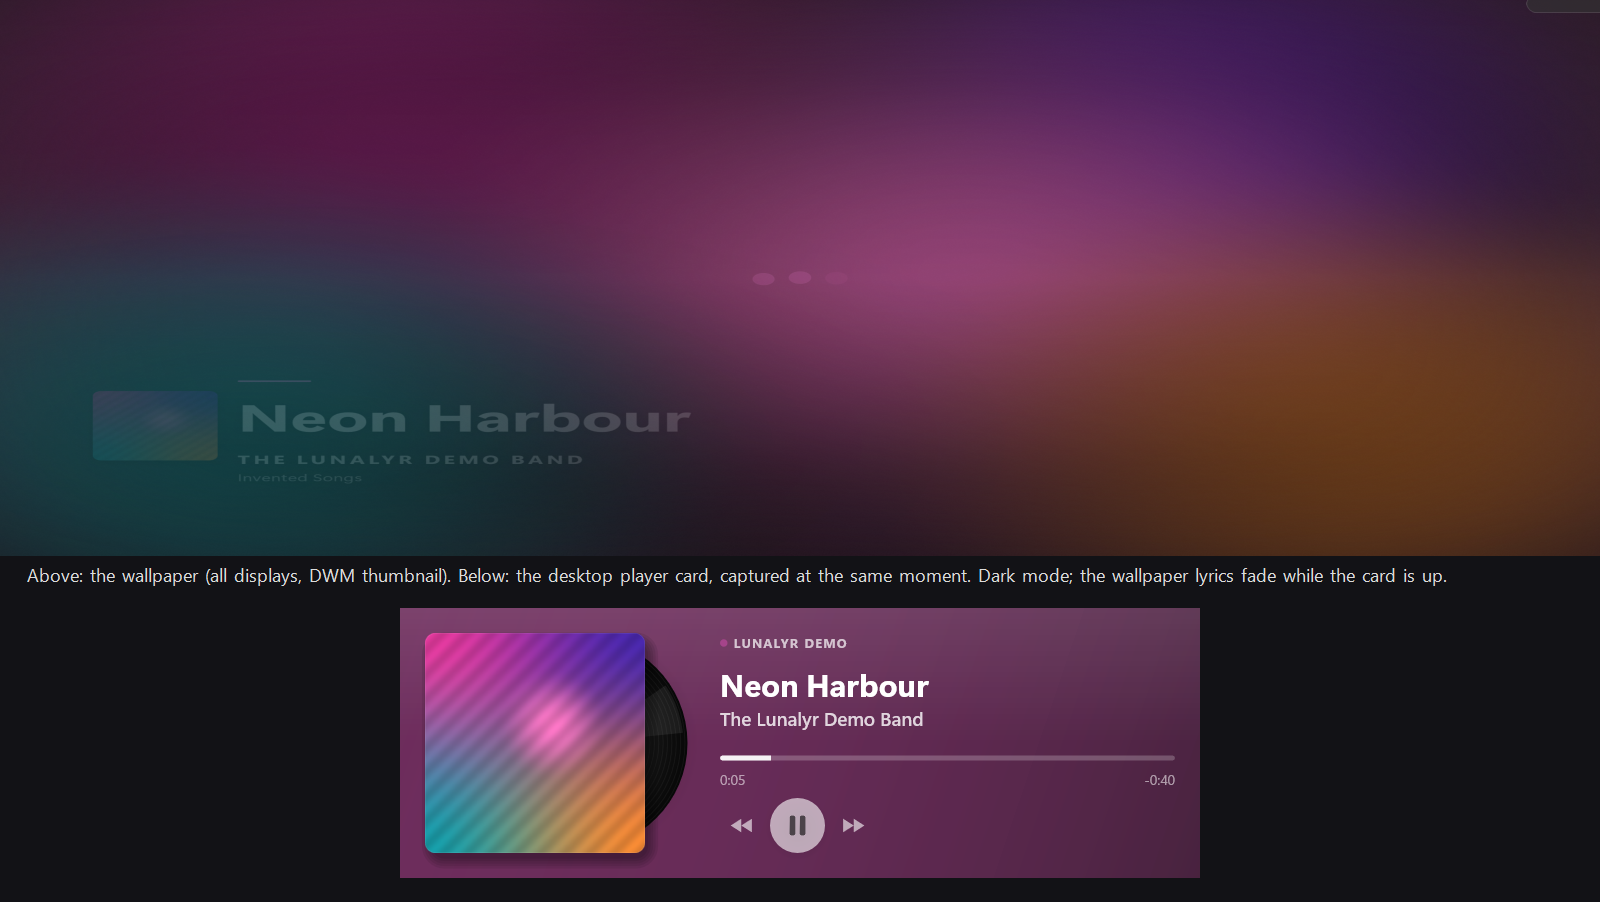
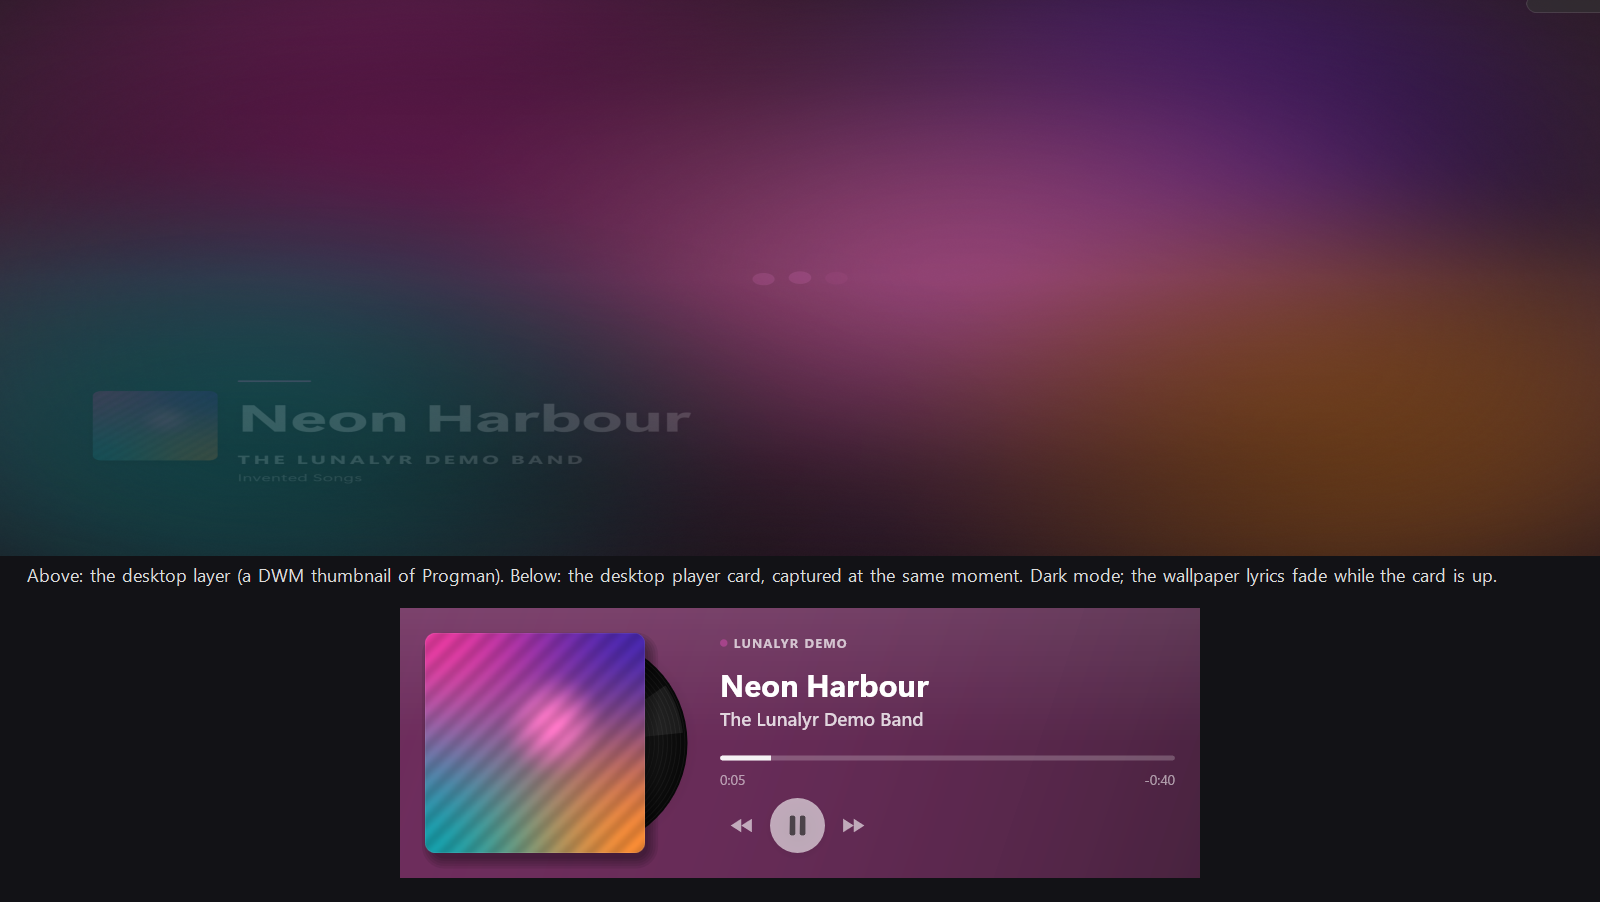
Desktop player: fewer per-frame allocations, on-screen check, honest docs
The card's strings that change with the clock are made once a second, the paint delegate
once, and UI Automation's snapshot at most four times a second. --player-debug top shows
the card over every window, for checks on screen. Button presses, seeks and the lyric
focus are logged at debug level.

Seen on screen: DWM's 8 px corners and album-coloured border, no shadow (the docs no
longer claim one); the hover from real mouse moves; the card directly above Progman. The
mid-scrub previews use lines the wallpaper holds; a held clock inside the demo's long
wrapping line loses that line after about 2 s, noted for the compositions' owner.

Changed region(s): [[0.0625, 0.6208, 0.9375, 0.6519]]

diff --git a/windows/src/Lunalyr.App/Player/CardPainter.cs b/windows/src/Lunalyr.App/Player/CardPainter.cs
@@ -14,7 +14,7 @@ namespace Lunalyr.App.Player;
 /// <summary>
 /// Draws the "Sleeve" card from a <see cref="CardModel"/> with Direct2D and DirectWrite, in DIPs. Device resources
 /// (brushes, the cover bitmap, gradients) are made once and kept until the device or the theme changes; text layouts
-/// are kept per string. Drawing a frame allocates nothing once those exist.
+/// are kept per string. A frame allocates only when a string it shows changes (the times, once a second).
 /// </summary>
 internal sealed class CardPainter : IDisposable
 {
@@ -288,7 +288,7 @@ internal sealed class CardPainter : IDisposable
         // The player, small, over the song (or the note about a command, while it shows).
         if (m.PlayerName.Length > 0 && m.NoteAlpha < 0.999f)
         {
-            var label = Layout(m.PlayerName.ToUpperInvariant(), TextStyle.Label, (int)width - 14);
+            var label = Layout(Upper(m.PlayerName), TextStyle.Label, (int)width - 14);
             var alpha = secondary * (1 - m.NoteAlpha);
             Fill(dc, new Ellipse(new Vector2(left + 3, CardLayout.ColumnTop + 8), 3, 3), WithAlpha(t.HighContrast ? t.Ink : t.Accent, alpha));
             DrawText(dc, label, left + 11, CardLayout.ColumnTop + 1, WithAlpha(t.Ink, alpha));
@@ -361,7 +361,7 @@ internal sealed class CardPainter : IDisposable
             }
             case ScrubRowKind.ElapsedOnly:
             {
-                var elapsed = Layout(ScrubMath.Timestamp(m.Elapsed), TextStyle.Time, 80);
+                var elapsed = Layout(Elapsed(m.Elapsed), TextStyle.Time, 80);
                 DrawText(dc, elapsed, left, CardLayout.SeekRowTop + CardLayout.BarBand, WithAlpha(t.Ink, timeAlpha));
                 var unknown = Layout("Length unknown", TextStyle.Time, 200);
                 DrawText(dc, unknown, left + elapsed.Metrics.Width + 8, CardLayout.SeekRowTop + CardLayout.BarBand, WithAlpha(t.Ink, timeAlpha * 0.6f));
@@ -440,8 +440,8 @@ internal sealed class CardPainter : IDisposable
         }
         else
         {
-            DrawText(dc, Layout(ScrubMath.Timestamp(m.Elapsed), TextStyle.Time, 100), times.X, times.Y, timeColour);
-            var trailing = Layout(ScrubMath.TrailingLabel(m.Elapsed, duration, m.ShowsRemaining), TextStyle.Time, 100);
+            DrawText(dc, Layout(Elapsed(m.Elapsed), TextStyle.Time, 100), times.X, times.Y, timeColour);
+            var trailing = Layout(Trailing(m.Elapsed, duration, m.ShowsRemaining), TextStyle.Time, 100);
             DrawText(dc, trailing, times.Right - trailing.Metrics.Width, times.Y, m.HoverPart == CardPart.TimeLabel ? WithAlpha(t.Ink, 1) : timeColour);
         }
 
@@ -484,7 +484,7 @@ internal sealed class CardPainter : IDisposable
         var time = m.CapsuleTime;
 
         // The time, with the rate under a slow hand.
-        var timeLayout = Layout(ScrubMath.Timestamp(time), TextStyle.CapsuleTime, 100);
+        var timeLayout = Layout(CapsuleTime(time), TextStyle.CapsuleTime, 100);
         var rate = m.Session?.RateLabel is { } r ? Layout(r, TextStyle.Rate, 120) : null;
         var timeWidth = timeLayout.Metrics.Width + (rate is null ? 0 : rate.Metrics.Width + 6) + 18;
         var timeBox = Clamp(new RectF(left + (float)m.CapsuleX - timeWidth / 2, bottom - 22, timeWidth, 22), left, width);
@@ -659,6 +659,39 @@ internal sealed class CardPainter : IDisposable
     }
 
     // ---- Text ----
+
+    // The strings that change with the clock, made again only when the second (or the label) changes.
+    private (long Key, string Text) _elapsed = (long.MinValue, ""), _capsuleTime = (long.MinValue, "");
+    private ((long, long, bool) Key, string Text) _trailing = ((long.MinValue, 0, false), "");
+    private (string Source, string Upper) _upper = ("", "");
+
+    private string Elapsed(double seconds)
+    {
+        var key = double.IsFinite(seconds) ? (long)Math.Floor(Math.Max(-1, seconds)) : -1;
+        if (key != _elapsed.Key) _elapsed = (key, ScrubMath.Timestamp(seconds));
+        return _elapsed.Text;
+    }
+
+    private string CapsuleTime(double seconds)
+    {
+        var key = double.IsFinite(seconds) ? (long)Math.Floor(Math.Max(-1, seconds)) : -1;
+        if (key != _capsuleTime.Key) _capsuleTime = (key, ScrubMath.Timestamp(seconds));
+        return _capsuleTime.Text;
+    }
+
+    private string Trailing(double elapsed, double duration, bool remaining)
+    {
+        var left = Math.Ceiling(Math.Max(0, duration - Math.Min(Math.Max(double.IsFinite(elapsed) ? elapsed : 0, 0), Math.Max(duration, 0))));
+        var key = ((long)(remaining ? left : -1), (long)Math.Floor(double.IsFinite(duration) ? duration : 0), remaining);
+        if (key != _trailing.Key) _trailing = (key, ScrubMath.TrailingLabel(elapsed, duration, remaining));
+        return _trailing.Text;
+    }
+
+    private string Upper(string text)
+    {
+        if (!ReferenceEquals(text, _upper.Source)) _upper = (text, text.ToUpperInvariant());
+        return _upper.Upper;
+    }
 
     private IDWriteTextLayout Layout(string text, TextStyle style, int maxWidth)
     {

diff --git a/windows/src/Lunalyr.App/Player/DesktopPlayer.cs b/windows/src/Lunalyr.App/Player/DesktopPlayer.cs
@@ -50,6 +50,7 @@ internal sealed unsafe partial class DesktopPlayer : IDisposable
     private long _primary;
     private readonly double _debugScrub = double.NaN;
     private readonly bool _debugShow;
+    private readonly bool _debugTop;
     private PlayerAutomation? _automation;
 
     // Hover poll.
@@ -70,6 +71,7 @@ internal sealed unsafe partial class DesktopPlayer : IDisposable
         _titles = new(1), _note = new(0);
     private double _noteUntil = double.NegativeInfinity;
     private uint _frameMs;
+    private double _automationAt = double.NegativeInfinity;
     private bool _dirty = true;
     private int _drawnVersion = -1;
 
@@ -108,6 +110,7 @@ internal sealed unsafe partial class DesktopPlayer : IDisposable
         foreach (var flag in debug)
         {
             if (flag == "show") _debugShow = true;
+            else if (flag == "top") _debugTop = true;
             else if (flag.StartsWith("scrub=", StringComparison.Ordinal)
                      && double.TryParse(flag.AsSpan(6), NumberStyles.Float, CultureInfo.InvariantCulture, out var share))
                 _debugScrub = Math.Clamp(share, 0, 1);
@@ -378,6 +381,13 @@ internal sealed unsafe partial class DesktopPlayer : IDisposable
     /// <summary>Just above the desktop, under every app's window: a window over the middle of the screen covers the card.</summary>
     private void PlaceAboveDesktop()
     {
+        if (_debugTop)
+        {
+            // --player-debug top: over every window, to check what the card looks like on screen (never by default).
+            PlayerNative.SetWindowPos(_surface.Hwnd, -1, 0, 0, 0, 0, PlayerNative.SWP_NOMOVE | PlayerNative.SWP_NOSIZE | PlayerNative.SWP_NOACTIVATE);
+            return;
+        }
+
         var desktop = PlayerNative.FindWindow("Progman", null);
         var above = desktop == 0 ? 0 : PlayerNative.GetWindow(desktop, PlayerNative.GW_HWNDPREV);
         if (above == _surface.Hwnd) return;
@@ -430,6 +440,12 @@ internal sealed unsafe partial class DesktopPlayer : IDisposable
         StartFrames(animating ? 16u : _model.DisplayedPlaying || _scrub.Flashing ? 100u : 250u);
     }
 
+    // Made once: a frame allocates no delegate.
+    private Action<Vortice.Direct2D1.ID2D1DeviceContext>? _paint;
+
+    private void PaintCard(Vortice.Direct2D1.ID2D1DeviceContext dc) =>
+        _painter.Paint(dc, _surface.Factory, _model, (float)PlayerCard.Width, CardPainter.Height);
+
     private void Draw()
     {
         _dirty = false;
@@ -442,9 +458,8 @@ internal sealed unsafe partial class DesktopPlayer : IDisposable
             if (reset) _painter.ReleaseDevice();
             var dc = _surface.Dc!;
             dc.Dpi = new Vortice.Mathematics.Size((float)(96 * _scale), (float)(96 * _scale));
-            var width = (float)PlayerCard.Width;
-            var height = CardPainter.Height;
-            if (!_surface.Draw(d => _painter.Paint(d, _surface.Factory, _model, width, height))) _painter.ReleaseDevice();
+            _paint ??= PaintCard;
+            if (!_surface.Draw(_paint)) _painter.ReleaseDevice();
         }
         catch (Exception ex) when (ex is SharpGen.Runtime.SharpGenException or COMException or InvalidOperationException)
         {
@@ -585,7 +600,13 @@ internal sealed unsafe partial class DesktopPlayer : IDisposable
         m.TitleAlpha = _titles.Value(now);
         m.NoteAlpha = _note.Value(now);
         m.PressedPart = _pressed;
-        _automation?.Update(m);
+        // What UI Automation reads changes at most once a second (the time, the line) or on a press: a few times a
+        // second is plenty, and the frames in between build nothing for it.
+        if (now - _automationAt >= 0.25)
+        {
+            _automationAt = now;
+            _automation?.Update(m);
+        }
     }
 
     private void RefreshLook()

diff --git a/windows/src/Lunalyr.App/Player/DesktopPlayer.Input.cs b/windows/src/Lunalyr.App/Player/DesktopPlayer.Input.cs
@@ -38,6 +38,7 @@ internal sealed unsafe partial class DesktopPlayer
 
     private nint OnMessage(nint hwnd, uint msg, nuint wParam, nint lParam)
     {
+        if (msg is PlayerNative.WM_LBUTTONDOWN or PlayerNative.WM_LBUTTONUP) _log.Debug(msg == PlayerNative.WM_LBUTTONDOWN ? "Desktop player: button down." : "Desktop player: button up.");
         switch (msg)
         {
             case PlayerNative.WM_TIMER:
@@ -411,6 +412,7 @@ internal sealed unsafe partial class DesktopPlayer
     /// <summary>The seek bar's one seek, on release (or a key's): refused, the bar goes back to the player's time.</summary>
     private void Seek(double songSeconds)
     {
+        _log.Debug($"Desktop player: seek to {songSeconds:0.##} s (sent once, through the guard).");
         Run(_commands.SeekAsync(songSeconds), result =>
         {
             _scrub.Release();
@@ -491,7 +493,11 @@ internal sealed unsafe partial class DesktopPlayer
     }
 
     /// <summary>Narrator set the seek bar's value: a seek there, as a key would make.</summary>
-    internal void SeekFromAutomation(double seconds) => _scrub.SeekNow(seconds, flash: true);
+    internal void SeekFromAutomation(double seconds)
+    {
+        _log.Debug("Desktop player: UI Automation set the seek bar.");
+        _scrub.SeekNow(seconds, flash: true);
+    }
 
     // ---- The wallpaper under a drag ----
 
@@ -514,8 +520,16 @@ internal sealed unsafe partial class DesktopPlayer
         if (_engine() is not { } engine) return;
         var target = _shownOn is null ? 1 : PlayerHoverFocus.WallpaperOpacity(hovered: true, previewing: _preview.AnySongTime() is not null);
         var reduce = _model.Look.ReduceMotion;
+        if (target != _focusTarget)
+        {
+            _focusTarget = target;
+            _log.Debug($"Desktop player: wallpaper lyrics to {target:0.##} (preview {_controller()?.IsPreviewing}).");
+        }
+
         engine.SetLyricFocus(target, _shownOn is null ? (reduce ? 0.12 : 0.25) : (reduce ? 0.15 : 0.3));
     }
+
+    private double _focusTarget = double.NaN;
 
     /// <summary><c>--player-debug scrub=x</c>: a drag held at that share of the bar (the preview only; never a seek).</summary>
     private void StartDebugScrub()

diff --git a/windows/src/Lunalyr.App/Player/CardSurface.cs b/windows/src/Lunalyr.App/Player/CardSurface.cs
@@ -12,7 +12,7 @@ namespace Lunalyr.App.Player;
 /// <summary>
 /// The card's window and what it draws into: a borderless pop-up with no redirection bitmap, whose one
 /// DirectComposition visual is a premultiplied-alpha flip swap chain drawn with Direct2D. Windows 11 rounds the window
-/// and gives it its shadow (DWM), so the window is exactly the card: clicks beside it reach the desktop. Everything
+/// (DWM; no shadow for a pop-up), so the window is exactly the card: clicks beside it reach the desktop. Everything
 /// here runs on the UI thread; the device is small and separate from the wallpaper's.
 /// </summary>
 internal sealed unsafe class CardSurface : IDisposable

diff --git a/windows/src/Lunalyr.Shell/ShellOptions.cs b/windows/src/Lunalyr.Shell/ShellOptions.cs
@@ -42,7 +42,7 @@ public sealed record ShellOptions
     public string? StatsPath { get; init; }
 
     /// <summary>
-    /// <c>--player-debug show,light,dark,reduce-motion,opaque,contrast,scrub=0.6</c>: checks of the desktop player
+    /// <c>--player-debug show,top,light,dark,reduce-motion,opaque,contrast,scrub=0.6</c>: checks of the desktop player
     /// without moving the pointer or changing Windows' settings. <c>show</c> keeps it up on the main display;
     /// the looks force one accessibility look; <c>scrub=x</c> holds a drag at that share of the seek bar (the
     /// wallpaper follows it, and nothing is ever sent to a player).

diff --git a/windows/docs/milestones/M5.md b/windows/docs/milestones/M5.md
@@ -12,7 +12,7 @@ Branch `m5/desktop-player` (from `next/windows` ee715c9), ported from the Mac's 
   - the album-washed card, the big cover with its record peeking out (it slides in on pause), the player's name, the
     title and artist, and a round play button between previous and next;
   - light and dark mode;
-  - DWM's rounded corners and shadow, just above the desktop and under every app.
+  - DWM's rounded corners and a 1 px border in the album's colour (no shadow), just above the desktop and under every app.
 - **Reveal on the empty desktop:**
   - a polled pointer with the Mac's hover intent (slow down or dwell; a fly-through never reveals) and its dismiss
     guards;
@@ -96,15 +96,34 @@ were translated.
   `MozillaWindowClass`), and the card rightly stayed down. So the reveal on bare desktop was not seen live. Its rules
   are unit-tested, and the card was checked through `--player-debug show`. The card also sat behind the owner's
   windows, as designed.
+- **On screen** (`--player-debug show,top`, which puts the card over every window, for two short runs):
+  - DWM rounds the corners at 8 px and draws the 1 px album-coloured border; there is no shadow;
+  - with the pointer moved over the bar by `SetCursorPos`, real `WM_MOUSEMOVE`s gave the hover: thicker bar, knob,
+    ticks, section gap, the time and "♪ instrumental" capsules, and the titles stepping aside;
+  - over a white app window the 93 % wash lets that window's text show faintly (over the wallpaper, where the card
+    normally sits, it reads as intended). These captures show the owner's screen, so they aren't committed.
+  - In the first of those runs the log shows two refused seeks with no key or automation call. Most likely the owner
+    clicked the card that had appeared over their window. Nothing reached a player (demo and guard); button presses
+    are logged at debug level since.
+- **Z-order** (`EnumWindows` without `top`): the card is directly above `Progman` and under every other visible
+  window (`Shell_TrayWnd` and 24 others).
 - The card keeps ticking under both message loops: the plain Win32 loop, and WinUI's after `--settings`.
+- **Allocations** (`--stats`, 40 s demo runs): 11.5 MB allocated with the card hidden, 11.8 MB with it shown, 11.7 MB
+  with a held scrub (about 7 KB/s for the card), and one gen-0 collection in each. The card's own D3D11 device and
+  DirectWrite add about 50 MB working set while it has been shown (245 → 300 MB on this two-GPU PC).
+- **Held on a long wrapping line, the wallpaper loses the line** (renderer, not the card): with the preview clock held
+  at 0:33.75 in "Every little window on the boulevard…" (the demo's wrapping line), the line shows for about 2 s, then
+  the wallpaper shows nothing. The preview clock stays 33.75 and the lyric focus stays 0.8 (traced). Held at 0:23
+  ("Stay with me") the line stays. A pause on that line would probably do the same; this is for the compositions'
+  owner. The screenshots use lines that hold.
 - **UI Automation, read with a silent client:**
   - the pane "Lunalyr player" with Cover, Previous track, Pause, Next track, the "Playback position" slider (range
     20/45, value "0:20 of 0:45, line: …") and "Time remaining 0:24";
   - Invoke on Pause and Next track gave the calm note, and nothing was sent (demo, guard on).
 - **Keys** (posted to the card): → showed the time capsule and the note; Tab walked Next → seek bar → time label with
   the focus ring.
-- **Screenshots** (`docs/previews/player/`; the `desktop-*` ones stack the wallpaper's DWM thumbnail above the card,
-  captured at the same moment, because PrintWindow can't composite the two):
+- **Screenshots** (`docs/previews/player/`; the `desktop-*` ones stack the desktop layer, a DWM thumbnail of Progman,
+  above the card, captured at the same moment, because PrintWindow can't composite the two):
   - `card-dark.png`, `card-light.png`, `card-reduce-motion.png`, `card-opaque.png` (transparency off),
     `card-contrast.png`, `card-commands-off.png` (the note), `card-keyboard-focus.png`;
   - `desktop-dark.png`: the wallpaper's lyrics faded under the card;
@@ -117,6 +136,8 @@ were translated.
   - the live reveal on exposed desktop (the desktop was covered, above);
   - real mouse drags on the bar (only units and the held debug scrub);
   - Narrator's speech (it makes sound);
+  - Windows before 24H2: there the icons sit in a `WorkerW` above `Progman`, so "just above Progman" would put the
+    card behind them. It needs placing above that `WorkerW` (not tested; this PC is 24H2);
   - a real contrast theme, Windows' own light mode, and transparency off. The looks were forced with
     `--player-debug`; the contrast preview uses the current, non-contrast system colours.
 - **Different from the Mac:**

diff --git a/windows/docs/APP-SHELL.md b/windows/docs/APP-SHELL.md
@@ -26,7 +26,7 @@ AOT, PerMonitorV2. The published folder is about 74 MB plus a 65 MB `Lunalyr.pdb
 | `--no-network` | No lyric lookups at all (status "Lyric lookups are off for this run"). The lyric service is still built; only its lookups are refused. For checks, so a launch doesn't send the song playing to lyric services. |
 | `--demo` | Follow a silent built-in demo player instead of the system's players (see "Demo mode"). Implies `--no-network` and `--no-playback`; uses `%LOCALAPPDATA%\Lunalyr\Demo` unless `--data` is given. |
 | `--stats <file>` | On quitting, write the renderer's frame statistics (since 3 s after start-up) as JSON, in the engine harness's shape; `tools/measure.ps1` passes it. |
-| `--player-debug <list>` | Checks of the desktop player without moving the pointer or changing Windows' settings, comma-separated: `show` (up on the main display, whatever the pointer does), `light`, `dark`, `reduce-motion`, `opaque`, `contrast` (force that look), `scrub=0.6` (a drag held at that share of the seek bar: the wallpaper follows it; nothing is sent to a player). |
+| `--player-debug <list>` | Checks of the desktop player without moving the pointer or changing Windows' settings, comma-separated: `show` (up on the main display, whatever the pointer does), `top` (over every window instead of just above the desktop, to see it on screen), `light`, `dark`, `reduce-motion`, `opaque`, `contrast` (force that look), `scrub=0.6` (a drag held at that share of the seek bar: the wallpaper follows it; nothing is sent to a player). |
 | `lunalyr://…` | Forwarded to the running instance and logged; links aren't acted on yet. |
 
 ## Demo mode (`--demo`)
@@ -121,7 +121,7 @@ Automation), `src/Lunalyr.Core/Player/` (the portable rules, ported with the Mac
 
 The card is a borderless `WS_POPUP` tool window with `WS_EX_NOREDIRECTIONBITMAP`. Its one DirectComposition visual is a
 premultiplied-alpha flip swap chain, drawn with Direct2D and DirectWrite on the UI thread, on a small D3D11 device of
-its own. Windows 11 rounds the window and gives it its shadow (`DWMWA_WINDOW_CORNER_PREFERENCE`). The three
+its own. Windows 11 rounds the window at 8 px (`DWMWA_WINDOW_CORNER_PREFERENCE`) and draws its 1 px border in the album's colour (`DWMWA_BORDER_COLOR`). A pop-up gets no system shadow: seen on screen with `--player-debug top`, the card's edge is that border alone. The three
 DirectComposition calls go through the COM vtables, so there is no new package. Why not a borderless WinUI window with
 Acrylic:
 - **WinUI is not running while Lunalyr idles.** It can only start by leaving the plain Win32 loop, once per process,
@@ -134,7 +134,7 @@ Acrylic:
   transparent margin for its shadow, and that margin would eat clicks meant for the desktop (`HTTRANSPARENT` only
   passes clicks to windows on the same thread). The window is exactly the card, so clicks beside it reach the
   desktop. DWM rounds it at Windows 11's own 8 px, not the Mac's 28.
-- **No Acrylic.** An inactive window's Acrylic falls back to a flat colour, and the card is almost always inactive.
+- **No Acrylic.** Windows' Acrylic backdrops are documented to fall back to a flat colour while the window is inactive, and the card is almost always inactive (not tried here).
   The card's "glass" is the album wash at 93 % over the wallpaper instead (the Mac's preview look). With
   transparency effects off it is solid.
 - **The price is accessibility, paid in code.** `PlayerAutomation.cs` is a UI Automation provider using
